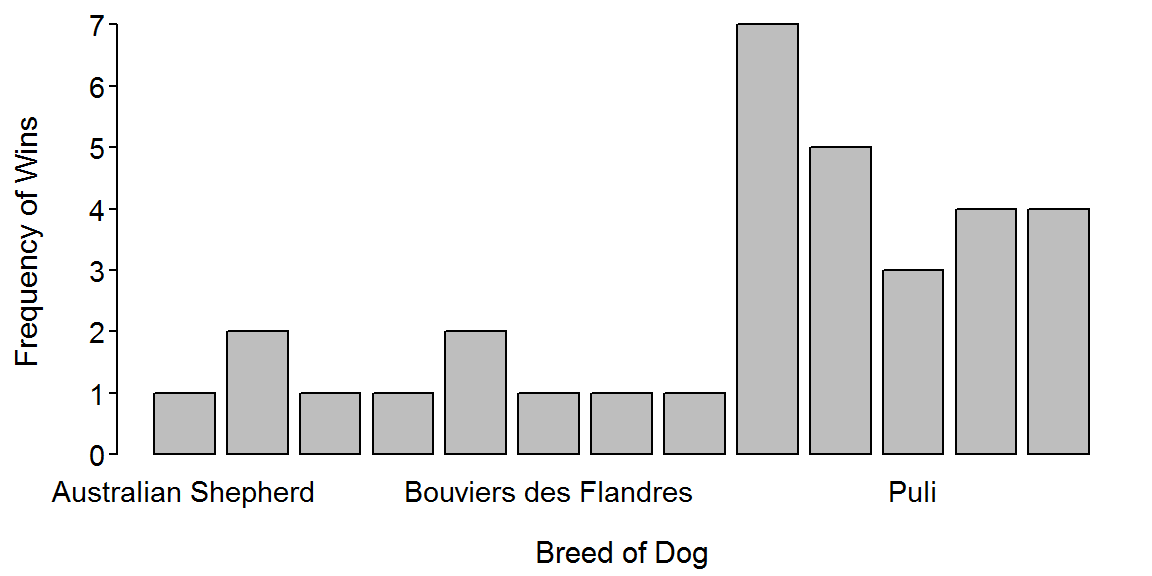
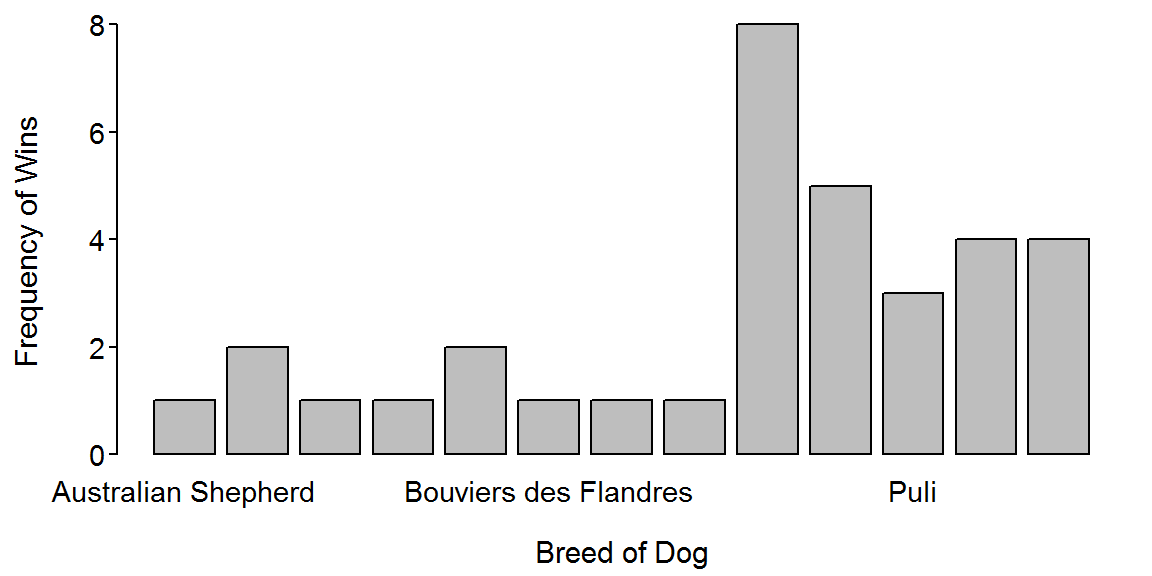
Updated some CEs

diff --git a/resources/ce-keys/UnivEDA_Categorical.html b/resources/ce-keys/UnivEDA_Categorical.html
@@ -21,7 +21,7 @@ Frequency Table
          Border Collie   Bouvier Des Flandres  Bouviers des Flandres 
                      1                      2                      1 
   Cardigan Welsh Corgi        German Shepherd    German Shepherd Dog 
-                     1                      1                      7 
+                     1                      1                      8 
   Old English Sheepdog                   Puli      Shetland Sheepdog 
                      5                      3                      4 
 Welsh Corgi (Pembroke) 
@@ -32,19 +32,19 @@ Percentage Table
 <pre class="r"><code>&gt; percTable(tbl,digits=1)</code></pre>
 <pre><code>breed
    Australian Shepherd         Bearded Collie       Belgian Tervuren 
-                   3.0                    6.1                    3.0 
+                   2.9                    5.9                    2.9 
          Border Collie   Bouvier Des Flandres  Bouviers des Flandres 
-                   3.0                    6.1                    3.0 
+                   2.9                    5.9                    2.9 
   Cardigan Welsh Corgi        German Shepherd    German Shepherd Dog 
-                   3.0                    3.0                   21.2 
+                   2.9                    2.9                   23.5 
   Old English Sheepdog                   Puli      Shetland Sheepdog 
-                  15.2                    9.1                   12.1 
+                  14.7                    8.8                   11.8 
 Welsh Corgi (Pembroke)                    Sum 
-                  12.1                   99.9 </code></pre>
+                  11.8                   99.8 </code></pre>
 <li>
 Bar Chart
 </li>
-<p><img src="UnivEDA_Categorical_files/figure-html/unnamed-chunk-5-1.png" title="" alt="" width="576" /></p>
+<p><img src="UnivEDA_Categorical_files/figure-html/unnamed-chunk-5-1.png" width="576" /></p>
 <li>
 <i>Can not Bring Myself to Make One</i>
 </li>
@@ -109,7 +109,7 @@ The goal for most kids was getting good grades, followed by being popular, and t
  Grades Popular  Sports 
     247     141      90 </code></pre>
 <pre class="r"><code>&gt; barplot(tbl,xlab=&quot;Student&#39;s Goal&quot;,ylab=&quot;Frequency&quot;,ylim=c(0,250))</code></pre>
-<img src="UnivEDA_Categorical_files/figure-html/unnamed-chunk-9-1.png" title="" alt="" width="384" />
+<img src="UnivEDA_Categorical_files/figure-html/unnamed-chunk-9-1.png" width="384" />
 <li>
 Students feel that “being good in sports” is an important contributor to popularity as approximately 2/3rds of studens ranked this as either “most important” or “somewhat important” to being popular.
 </li>
@@ -119,7 +119,7 @@ Students feel that “being good in sports” is an important contributor to pop
    1    2    3    4  Sum 
 34.5 32.2 23.4  9.8 99.9 </code></pre>
 <pre class="r"><code>&gt; barplot(tbl,xlab=&quot;Rank of Sports in Popularity&quot;,ylab=&quot;Frequency&quot;,ylim=c(0,200))</code></pre>
-<p><img src="UnivEDA_Categorical_files/figure-html/unnamed-chunk-10-1.png" title="" alt="" width="384" /></p>
+<p><img src="UnivEDA_Categorical_files/figure-html/unnamed-chunk-10-1.png" width="384" /></p>
 <li>
 Students were nearly evenly distributed among rural, suburban, and urban schools. Students were likely sampled nearly equally from each type of school.
 </li>
@@ -128,9 +128,11 @@ Students were nearly evenly distributed among rural, suburban, and urban schools
    Rural Suburban    Urban 
      149      151      178 </code></pre>
 <pre class="r"><code>&gt; barplot(tbl,xlab=&quot;School Type&quot;,ylab=&quot;Frequency&quot;,ylim=c(0,200))</code></pre>
-<img src="UnivEDA_Categorical_files/figure-html/unnamed-chunk-11-1.png" title="" alt="" width="384" />
+<img src="UnivEDA_Categorical_files/figure-html/unnamed-chunk-11-1.png" width="384" />
 </ol>
 </div>
+
+
 
 
 </div>
@@ -141,6 +143,7 @@ Students were nearly evenly distributed among rural, suburban, and urban schools
 $(document).ready(function () {
   $('tr.header').parent('thead').parent('table').addClass('table table-condensed');
 });
+
 
 </script>
 

diff --git a/resources/ce-keys/UnivEDA_Categorical_files/navigation-1.1/FileSaver.min.js b/resources/ce-keys/UnivEDA_Categorical_files/navigation-1.1/FileSaver.min.js
@@ -1,0 +1,2 @@
+/*! @source http://purl.eligrey.com/github/FileSaver.js/blob/master/FileSaver.js */
+var saveAs=saveAs||function(e){"use strict";if("undefined"==typeof navigator||!/MSIE [1-9]\./.test(navigator.userAgent)){var t=e.document,n=function(){return e.URL||e.webkitURL||e},o=t.createElementNS("http://www.w3.org/1999/xhtml","a"),r="download"in o,i=function(e){var t=new MouseEvent("click");e.dispatchEvent(t)},a=/Version\/[\d\.]+.*Safari/.test(navigator.userAgent),c=e.webkitRequestFileSystem,f=e.requestFileSystem||c||e.mozRequestFileSystem,u=function(t){(e.setImmediate||e.setTimeout)(function(){throw t},0)},d="application/octet-stream",s=0,l=4e4,v=function(e){var t=function(){"string"==typeof e?n().revokeObjectURL(e):e.remove()};setTimeout(t,l)},p=function(e,t,n){t=[].concat(t);for(var o=t.length;o--;){var r=e["on"+t[o]];if("function"==typeof r)try{r.call(e,n||e)}catch(i){u(i)}}},w=function(e){return/^\s*(?:text\/\S*|application\/xml|\S*\/\S*\+xml)\s*;.*charset\s*=\s*utf-8/i.test(e.type)?new Blob(["\ufeff",e],{type:e.type}):e},y=function(t,u,l){l||(t=w(t));var y,m,S,h=this,R=t.type,O=!1,g=function(){p(h,"writestart progress write writeend".split(" "))},b=function(){if(m&&a&&"undefined"!=typeof FileReader){var o=new FileReader;return o.onloadend=function(){var e=o.result;m.location.href="data:attachment/file"+e.slice(e.search(/[,;]/)),h.readyState=h.DONE,g()},o.readAsDataURL(t),void(h.readyState=h.INIT)}if((O||!y)&&(y=n().createObjectURL(t)),m)m.location.href=y;else{var r=e.open(y,"_blank");void 0===r&&a&&(e.location.href=y)}h.readyState=h.DONE,g(),v(y)},E=function(e){return function(){return h.readyState!==h.DONE?e.apply(this,arguments):void 0}},N={create:!0,exclusive:!1};return h.readyState=h.INIT,u||(u="download"),r?(y=n().createObjectURL(t),void setTimeout(function(){o.href=y,o.download=u,i(o),g(),v(y),h.readyState=h.DONE})):(e.chrome&&R&&R!==d&&(S=t.slice||t.webkitSlice,t=S.call(t,0,t.size,d),O=!0),c&&"download"!==u&&(u+=".download"),(R===d||c)&&(m=e),f?(s+=t.size,void f(e.TEMPORARY,s,E(function(e){e.root.getDirectory("saved",N,E(function(e){var n=function(){e.getFile(u,N,E(function(e){e.createWriter(E(function(n){n.onwriteend=function(t){m.location.href=e.toURL(),h.readyState=h.DONE,p(h,"writeend",t),v(e)},n.onerror=function(){var e=n.error;e.code!==e.ABORT_ERR&&b()},"writestart progress write abort".split(" ").forEach(function(e){n["on"+e]=h["on"+e]}),n.write(t),h.abort=function(){n.abort(),h.readyState=h.DONE},h.readyState=h.WRITING}),b)}),b)};e.getFile(u,{create:!1},E(function(e){e.remove(),n()}),E(function(e){e.code===e.NOT_FOUND_ERR?n():b()}))}),b)}),b)):void b())},m=y.prototype,S=function(e,t,n){return new y(e,t,n)};return"undefined"!=typeof navigator&&navigator.msSaveOrOpenBlob?function(e,t,n){return n||(e=w(e)),navigator.msSaveOrOpenBlob(e,t||"download")}:(m.abort=function(){var e=this;e.readyState=e.DONE,p(e,"abort")},m.readyState=m.INIT=0,m.WRITING=1,m.DONE=2,m.error=m.onwritestart=m.onprogress=m.onwrite=m.onabort=m.onerror=m.onwriteend=null,S)}}("undefined"!=typeof self&&self||"undefined"!=typeof window&&window||this.content);"undefined"!=typeof module&&module.exports?module.exports.saveAs=saveAs:"undefined"!=typeof define&&null!==define&&null!==define.amd&&define([],function(){return saveAs});

diff --git a/resources/ce-keys/UnivEDA_Categorical_files/navigation-1.1/tabsets.js b/resources/ce-keys/UnivEDA_Categorical_files/navigation-1.1/tabsets.js
@@ -1,0 +1,86 @@
+
+
+window.buildTabsets = function(tocID) {
+
+  // build a tabset from a section div with the .tabset class
+  function buildTabset(tabset) {
+
+    // check for fade and pills options
+    var fade = tabset.hasClass("tabset-fade");
+    var pills = tabset.hasClass("tabset-pills");
+    var navClass = pills ? "nav-pills" : "nav-tabs";
+
+    // determine the heading level of the tabset and tabs
+    var match = tabset.attr('class').match(/level(\d) /);
+    if (match === null)
+      return;
+    var tabsetLevel = Number(match[1]);
+    var tabLevel = tabsetLevel + 1;
+
+    // find all subheadings immediately below
+    var tabs = tabset.find("div.section.level" + tabLevel);
+    if (!tabs.length)
+      return;
+
+    // create tablist and tab-content elements
+    var tabList = $('<ul class="nav ' + navClass + '" role="tablist"></ul>');
+    $(tabs[0]).before(tabList);
+    var tabContent = $('<div class="tab-content"></div>');
+    $(tabs[0]).before(tabContent);
+
+    // build the tabset
+    tabs.each(function(i) {
+
+      // get the tab div
+      var tab = $(tabs[i]);
+
+      // get the id then sanitize it for use with bootstrap tabs
+      var id = tab.attr('id');
+
+      // remove any table of contents entries associated with
+      // this ID (since we'll be removing the heading element)
+      $("div#" + tocID + " li a[href='#" + id + "']").parent().remove();
+
+      // sanitize the id for use with bootstrap tabs
+      id = id.replace(/[.\/?&!#<>]/g, '').replace(/\s/g, '_');
+      tab.attr('id', id);
+
+      // get the heading element within it, grab it's text, then remove it
+      var heading = tab.find('h' + tabLevel + ':first');
+      var headingText = heading.html();
+      heading.remove();
+
+      // build and append the tab list item
+      var a = $('<a role="tab" data-toggle="tab">' + headingText + '</a>');
+      a.attr('href', '#' + id);
+      a.attr('aria-controls', id);
+      var li = $('<li role="presentation"></li>');
+      li.append(a);
+      if (i === 0)
+        li.attr('class', 'active');
+      tabList.append(li);
+
+      // set it's attributes
+      tab.attr('role', 'tabpanel');
+      tab.addClass('tab-pane');
+      tab.addClass('tabbed-pane');
+      if (fade)
+        tab.addClass('fade');
+      if (i === 0) {
+        tab.addClass('active');
+        if (fade)
+          tab.addClass('in');
+      }
+
+      // move it into the tab content div
+      tab.detach().appendTo(tabContent);
+    });
+  }
+
+  // convert section divs with the .tabset class to tabsets
+  var tabsets = $("div.section.tabset");
+  tabsets.each(function(i) {
+    buildTabset($(tabsets[i]));
+  });
+};
+

diff --git a/resources/ce-keys/UnivEDA_Categorical_files/navigation-1.1/codefolding.js b/resources/ce-keys/UnivEDA_Categorical_files/navigation-1.1/codefolding.js
@@ -1,0 +1,60 @@
+
+window.initializeCodeFolding = function(show) {
+
+  // handlers for show-all and hide all
+  $("#rmd-show-all-code").click(function() {
+    $('div.r-code-collapse').each(function() {
+      $(this).collapse('show');
+    });
+  });
+  $("#rmd-hide-all-code").click(function() {
+    $('div.r-code-collapse').each(function() {
+      $(this).collapse('hide');
+    });
+  });
+
+  // index for unique code element ids
+  var currentIndex = 1;
+
+  // select all R code blocks
+  var rCodeBlocks = $('pre.r');
+  rCodeBlocks.each(function() {
+
+    // create a collapsable div to wrap the code in
+    var div = $('<div class="collapse r-code-collapse"></div>');
+    if (show)
+      div.addClass('in');
+    var id = 'rcode-643E0F36' + currentIndex++;
+    div.attr('id', id);
+    $(this).before(div);
+    $(this).detach().appendTo(div);
+
+    // add a show code button right above
+    var showCodeText = $('<span>' + (show ? 'Hide' : 'Code') + '</span>');
+    var showCodeButton = $('<button type="button" class="btn btn-default btn-xs code-folding-btn pull-right"></button>');
+    showCodeButton.append(showCodeText);
+    showCodeButton
+        .attr('data-toggle', 'collapse')
+        .attr('data-target', '#' + id)
+        .attr('aria-expanded', true)
+        .attr('aria-controls', id)
+        .css('margin-bottom', '4px');
+
+    var buttonRow = $('<div class="row"></div>');
+    var buttonCol = $('<div class="col-md-12"></div>');
+
+    buttonCol.append(showCodeButton);
+    buttonRow.append(buttonCol);
+
+    div.before(buttonRow);
+
+    // update state of button on show/hide
+    div.on('hidden.bs.collapse', function () {
+      showCodeText.text('Code');
+    });
+    div.on('show.bs.collapse', function () {
+      showCodeText.text('Hide');
+    });
+  });
+
+}

diff --git a/resources/ce-keys/UnivEDA_Categorical_files/navigation-1.1/sourceembed.js b/resources/ce-keys/UnivEDA_Categorical_files/navigation-1.1/sourceembed.js
@@ -1,0 +1,9 @@
+
+
+window.initializeSourceEmbed = function(filename) {
+  $("#rmd-download-source").click(function() {
+    var src = window.atob($("#rmd-source-code").html());
+    var blob = new Blob([src], {type: "text/x-r-markdown"});
+    saveAs(blob, filename);
+  });
+};

diff --git a/modules/Getting_Started_R/CE1.md b/modules/Getting_Started_R/CE1.md
@@ -9,7 +9,7 @@ css: "/css/modules.css"
 
 ## Coarse Woody Debris
 <img src="../zimgs/cwd1-bony-lake.jpg" alt="CWD Bony Lake" class="img-right">
-Coarse woody debris (CWD) in lakes is important for aquatic systems as it provides refuge for young fish and invertebrates as well as providing areas for periphyton to grow.  Coarse woody debris was studied in the north basin of Allequash Lake in northern Wisconsin.  Among other things, the researchers recorded the diameter (cm) of CWD found in the lake littoral zone and a qualitative measure of the degree to which the location where the CWD was found was exposed to winds (low or medium).  The data (sampled from information on the [North Temperate Lakes Long Term Ecological Research website](http://lter.limnology.wisc.edu/spatial/source/data_cat_new.htm)) they observed are shown below.
+Coarse woody debris (CWD) in lakes is important for aquatic systems as it provides refuge for young fish and invertebrates as well as providing areas for periphyton to grow.  Coarse woody debris was studied in the north basin of Allequash Lake in northern Wisconsin.  Among other things, the researchers recorded the diameter (cm) of CWD found in the lake littoral zone and a qualitative measure of the degree to which the location where the CWD was found was exposed to winds (low or medium).  The data (sampled from information on the [North Temperate Lakes Long Term Ecological Research website](https://lter.limnology.wisc.edu/datacatalog/search)) they observed are shown below.
 
 <pre>
 diameter  21  15  18  23  18  17  19  17  15  22  16  20  16  17  18  15  16  24  24  23

diff --git a/modules/UnivEDA_Categorical/CE3.md b/modules/UnivEDA_Categorical/CE3.md
@@ -10,7 +10,7 @@ css: "/css/modules.css"
 
 ## Coarse Woody Debris
 <img src="../zimgs/cwd2.jpg" alt="CWD" class="img-right">
-Coarse woody debris (CWD) in lakes is important for aquatic systems as it provides refuge for young fish and invertebrates as well as providing areas for periphyton to grow.  Coarse woody debris was studied in the north basin of Allequash Lake in northern Wisconsin.  Among other things, the researchers recorded the diameter (cm) of CWD found in the lake littoral zone and a qualitative measure of the degree to which the location where the CWD was found was exposed to winds (low or medium).  The data (sampled from information on the [North Temperate Lakes Long Term Ecological Research website](http://lter.limnology.wisc.edu/spatial/source/data_cat_new.htm)) they observed are shown below.
+Coarse woody debris (CWD) in lakes is important for aquatic systems as it provides refuge for young fish and invertebrates as well as providing areas for periphyton to grow.  Coarse woody debris was studied in the north basin of Allequash Lake in northern Wisconsin.  Among other things, the researchers recorded the diameter (cm) of CWD found in the lake littoral zone and a qualitative measure of the degree to which the location where the CWD was found was exposed to winds (low or medium).  The data (sampled from information on the [North Temperate Lakes Long Term Ecological Research website](https://lter.limnology.wisc.edu/datacatalog/search)) they observed are shown below.
 
 <pre>
 diameter  21  15  18  23  18  17  19  17  15  22  16  20  16  17  18  15  16  24  24  23

diff --git a/modules/UnivEDA_Quantitative/CE4.md b/modules/UnivEDA_Quantitative/CE4.md
@@ -9,7 +9,7 @@ css: "/css/modules.css"
 
 ## Coarse Woody Debris
 <img src="../zimgs/cwd2.jpg" alt="CWD" class="img-right">
-Coarse woody debris (CWD) in lakes is important for aquatic systems as it provides refuge for young fish and invertebrates as well as providing areas for periphyton to grow.  Coarse woody debris was studied in the north basin of Allequash Lake in northern Wisconsin.  Among other things, the researchers recorded the diameter (cm) of CWD found in the lake littoral zone and a qualitative measure of the degree to which the location where the CWD was found was exposed to winds (low or medium).  The data (sampled from information on the [North Temperate Lakes Long Term Ecological Research website](http://lter.limnology.wisc.edu/spatial/source/data_cat_new.htm)) they observed are shown below.
+Coarse woody debris (CWD) in lakes is important for aquatic systems as it provides refuge for young fish and invertebrates as well as providing areas for periphyton to grow.  Coarse woody debris was studied in the north basin of Allequash Lake in northern Wisconsin.  Among other things, the researchers recorded the diameter (cm) of CWD found in the lake littoral zone and a qualitative measure of the degree to which the location where the CWD was found was exposed to winds (low or medium).  The data (sampled from information on the [North Temperate Lakes Long Term Ecological Research website](https://lter.limnology.wisc.edu/datacatalog/search)) they observed are shown below.
 
 <pre>
 diameter  21  15  18  23  18  17  19  17  15  22  16  20  16  17  18  15  16  24  24  23

diff --git a/modules/UnivEDA_Categorical/CE1.md b/modules/UnivEDA_Categorical/CE1.md
@@ -10,7 +10,7 @@ css: "/css/modules.css"
 
 ## Hand Calculations
 <img src="../zimgs/sheltie-herding.jpg" alt="Sheltie Herding" class="img-right">
-The breeds that won the "Herding Group" at the Westminster Kennel Club championships are [listed here](http://www.westminsterkennelclub.org/history/herdwinners.html).  Perform the following tasks with those data.
+The breeds that won the "Herding Group" at the Westminster Kennel Club championships are [listed here](http://www.westminsterkennelclub.org/about-sensation/history/herding-group-winners/).  Perform the following tasks with those data.
 
 1. Construct a table that shows the frequency of breeds that won the group.
 1. Construct a table that shows the percentage by breed that won the group.
